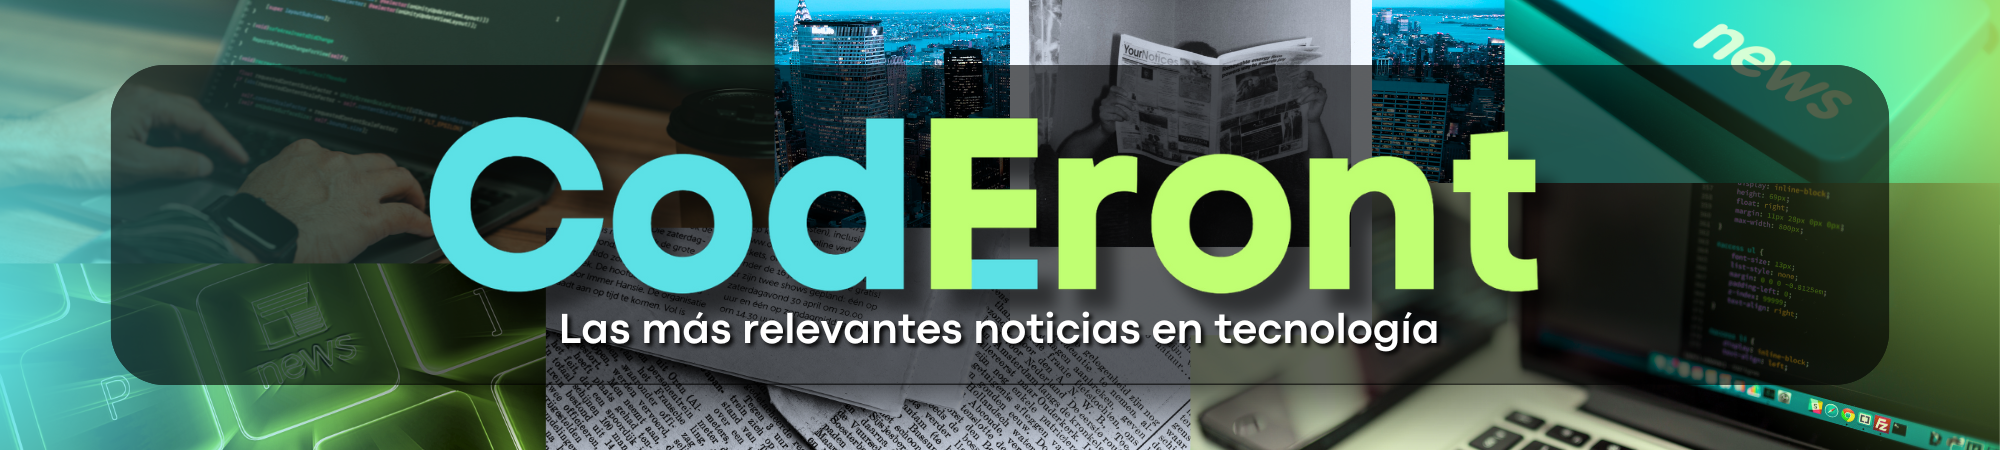
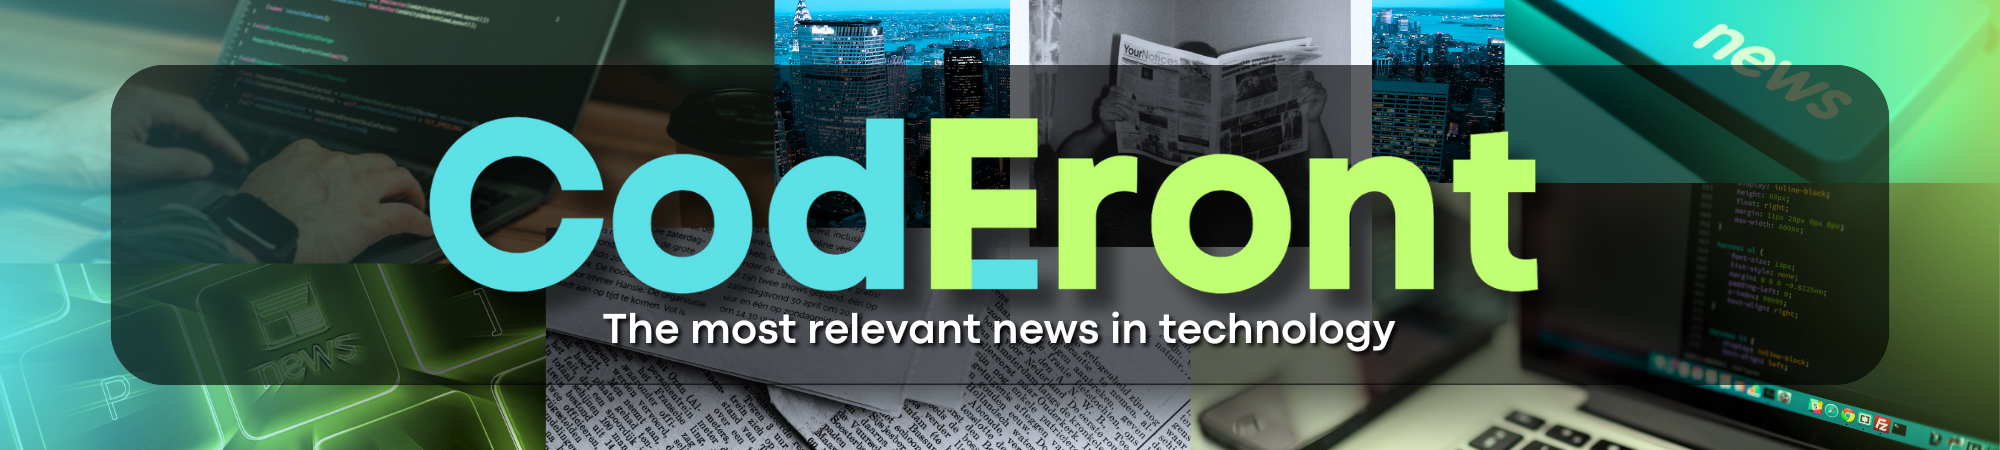
cambios en el front

Changed region(s): [[0.279, 0.6844, 0.744, 0.7778]]

diff --git a/frontend/src/pages/register.jsx b/frontend/src/pages/register.jsx
@@ -4,16 +4,16 @@ const Register = () => {
     return (
         <div className="register-page">
             <div className="register-content">
-                <h1 className="register-title">Crea tu cuenta</h1>
-                <p className="register-text">Por favor, completa la información para registrarte.</p>
+                <h1 className="register-title">Create Your Account</h1>
+                <p className="register-text">Please complete the information to register.</p>
                 <form className="register-form">
-                    <input className="register-input" type="text" placeholder="Usuario" required />
-                    <input className="register-input" type="password" placeholder="Contraseña" required />
-                    <input className="register-input" type="password" placeholder="Confirmar contraseña" required />
-                    <button className="register-button" type="submit">Registrarme</button>
+                    <input className="register-input" type="text" placeholder="Username" required />
+                    <input className="register-input" type="password" placeholder="Password" required />
+                    <input className="register-input" type="password" placeholder="Confirm Password" required />
+                    <button className="register-button" type="submit">Sign Up</button>
                 </form>
                 <p className="register-login">
-                    ¿Ya tienes una cuenta? <a className="register-link" href="/login">Inicia sesión aquí</a>
+                    Already have an account? <a className="register-link" href="/login">Log in here</a>
                 </p>
             </div>
         </div>

diff --git a/frontend/src/components/Sidebar.jsx b/frontend/src/components/Sidebar.jsx
@@ -1,6 +1,7 @@
 import React from "react";
 import { Link } from "react-router-dom";
 import "../components/sidebar.css"
+import CodeFront from "../assets/images/CodeFront_Full.png"
 import homeIcon from "../assets/icons/home-icon.svg";
 import favoritesIcon from "../assets/icons/star-icon.svg";
 import profileIcon from "../assets/icons/profile-icon.svg";
@@ -9,17 +10,20 @@ const Sidebar = () => {
     return (
         <div className="sidebar">
             <nav className="nav flex-column">
+                <div className="nav-logo">
+                    <img src={CodeFront} alt="Logo" className="Logo"/>
+                </div>
                 <Link to="/" className="nav-link">
-                    <img src={homeIcon} alt="Inicio" className="icon" />
-                    Inicio
+                    <img src={homeIcon} alt="Inicio" className="icon"/>
+                    Home
                 </Link>
                 <Link to="/favorites" className="nav-link">
-                    <img src={favoritesIcon} alt="Favoritos" className="icon" />
-                    Favoritos
+                    <img src={favoritesIcon} alt="Favoritos" className="icon"/>
+                    Favorites
                 </Link>
                 <Link to="/profile" className="nav-link">
-                    <img src={profileIcon} alt="Perfil" className="icon" />
-                    Perfil
+                    <img src={profileIcon} alt="Perfil" className="icon"/>
+                    Profile
                 </Link>
             </nav>
         </div>

diff --git a/frontend/src/components/sidebar.css b/frontend/src/components/sidebar.css
@@ -2,26 +2,55 @@
 .sidebar {
     height: 100vh;
     width: 180px;
-    background-color: var(--azul);
     padding-top: 20px;
     display: flex;
     flex-direction: column;
+    background-color: black;
+}
+
+.nav-logo {
+    display: flex;
+    justify-content: center;
+    align-items: center;
+    padding: 20px 0;
+    margin-bottom: 20px;
+    width: 100%;
+}
+
+.nav-logo img.Logo {
+    max-width: 100px;
+    height: auto;
 }
 
 .nav-link {
-    color: black;
+    color: white; /* Color de texto blanco por defecto */
     display: flex;
     align-items: center;
     font-weight: bold;
     font-size: 1.2rem;
     padding: 30px 30px;
-    transition: background-color 0.3s ease;
+    transition: background-color 0.3s ease, color 0.3s ease; /* Transición para el color del texto */
+}
+.nav-link {
+    color: white; /* Color de texto blanco por defecto */
+    display: flex;
+    align-items: center;
+    font-weight: bold;
+    font-size: 1.2rem;
+    padding: 30px 30px;
+    transition: background-color 0.3s ease, color 0.3s ease; /* Transición para el color del texto */
 }
 
 .nav-link img.icon {
     width: 20px;
     height: 20px;
     margin-right: 10px;
+    filter: invert(100%); /* Asegura que los íconos SVG sean blancos */
+}
+
+.nav-link:hover {
+    background-color: #333; /* Fondo gris al pasar el mouse */
+    color: var(--azul); /* Color blanco claro para las letras al pasar el mouse */
 }
 
 .nav-link:focus {

diff --git a/frontend/src/pages/login.jsx b/frontend/src/pages/login.jsx
@@ -4,15 +4,15 @@ const Login = () => {
     return (
         <div className="login-page">
             <div className="login-content">
-                <h1 className="login-title">Bienvenido a CodeFront</h1>
-                <p className="login-text">Por favor, inicia sesión para continuar.</p>
+                <h1 className="login-title">Welcome to CodeFront</h1>
+                <p className="login-text">Please log in to continue.</p>
                 <form className="login-form">
-                    <input type="text" placeholder="Usuario" className="login-input" required />
-                    <input type="password" placeholder="Contraseña" className="login-input" required />
-                    <button type="submit" className="login-button">Iniciar Sesión</button>
+                    <input type="text" placeholder="Username" className="login-input" required />
+                    <input type="password" placeholder="Password" className="login-input" required />
+                    <button type="submit" className="login-button">Log In</button>
                 </form>
                 <p className="login-register">
-                    ¿No tienes cuenta? <a href="/register" className="login-link">Regístrate aquí</a>
+                    Don't have an account? <a href="/register" className="login-link">Sign up here</a>
                 </p>
             </div>
         </div>

diff --git a/frontend/src/pages/profile.jsx b/frontend/src/pages/profile.jsx
@@ -13,15 +13,15 @@ const Profile = () => {
 
     return (
         <div className="profile-container">
-            <h1 className="profile-title">Mi Perfil</h1>
+            <h1 className="profile-title">My Profile</h1>
             <div className="profile-info">
-                {/*<p><strong>Nombre de usuario:</strong> {session ? session.username : "Usuario no disponible"}</p>*/}
-                {/* Temporariamente mostramos un texto fijo para el nombre de usuario */}
-                <p className="profile-subtitle"><strong>Usuario:</strong></p>
+                {/*<p><strong>Username:</strong> {session ? session.username : "Username not available"}</p>*/}
+                {/* Temporarily displaying a fixed username */}
+                <p className="profile-subtitle"><strong>Username:</strong></p>
                 <p className="profile-text">Pamela2001</p>
             </div>
             <div className="logout-button-container">
-                <button className="logout-button" onClick={handleLogout}>Cerrar sesión</button>
+                <button className="logout-button" onClick={handleLogout}>Log Out</button>
             </div>
         </div>
     );

diff --git a/frontend/src/pages/home.jsx b/frontend/src/pages/home.jsx
@@ -8,14 +8,14 @@ const Home = () => {
                 <div className="home-banner">
                     <img src={Banner} className="img-fluid" alt="Banner"/>
                 </div>
-                <h1 className="home-title">¡Bienvenido!</h1>
-                <p className="home-text">Descubre lo que podemos ofrecerte</p>
+                <h1 className="home-title">¡Welcome!</h1>
+                <p className="home-text">Discover what we can offer you</p>
                 <div className="home-buttons">
                     <button onClick={() => window.location.href = "/login"} className="btn btn-primary">
-                        Iniciar Sesión
+                        Log In
                     </button>
                     <button onClick={() => window.location.href = "/register"} className="btn btn-secondary ms-2">
-                        Registrarme
+                        Sign Up
                     </button>
             </div>
         </div>

diff --git a/frontend/src/assets/css/home.css b/frontend/src/assets/css/home.css
@@ -35,7 +35,7 @@ body, html {
     display: flex;
     justify-content: center;
     font-family: var(--titulo-font), arial, serif;
-    color: var(--azul);
+    color: var(--verde);
     margin-top: 30px;
     font-size: 3rem;
     font-weight: bold;

diff --git a/frontend/src/routes/Root.jsx b/frontend/src/routes/Root.jsx
@@ -9,7 +9,6 @@ import "../assets/css/Fonts.css";
 const Root = () => {
     return (
         <div>
-            <Header />
             <div className="main-container">
                 <Sidebar />
                 <div className="content">
